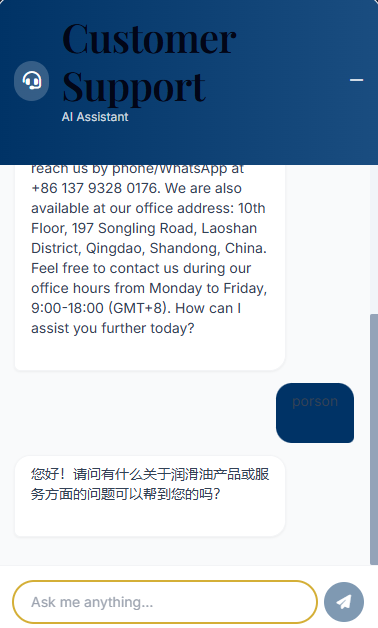
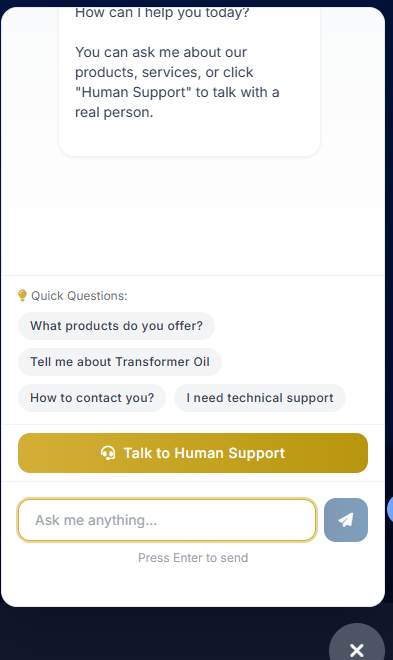
fix: 修复客服对话框显示不全问题
- 窗口最大高度从 80vh 增加到 90vh
- 消息区域最小高度设为 250px，最大高度设为 50vh
- 确保消息区域能完整显示欢迎消息和快捷问题

diff --git a/src/components/ChatWidget.tsx b/src/components/ChatWidget.tsx
@@ -228,7 +228,7 @@ const ChatWidget = () => {
     <div className="fixed bottom-4 right-4 z-50 flex flex-col items-end max-w-[calc(100vw-2rem)]">
       {/* Chat Window */}
       {isOpen && (
-        <div className="mb-4 w-[calc(100vw-2rem)] sm:w-96 bg-white rounded-2xl shadow-2xl flex flex-col overflow-hidden border border-gray-200 animate-slideUp max-h-[80vh] sm:max-h-[600px]">
+        <div className="mb-4 w-[calc(100vw-2rem)] sm:w-96 bg-white rounded-2xl shadow-2xl flex flex-col overflow-hidden border border-gray-200 animate-slideUp" style={{ maxHeight: '90vh' }}>
           {/* Header */}
           <div className="bg-gradient-to-r from-[#003366] via-[#004080] to-[#003366] text-white p-3 sm:p-4 relative overflow-hidden flex-shrink-0">
             {/* Decorative elements */}
@@ -265,7 +265,7 @@ const ChatWidget = () => {
           </div>
 
           {/* Messages Area */}
-          <div className="flex-1 overflow-y-auto p-3 sm:p-4 space-y-3 bg-gradient-to-b from-gray-50 to-white min-h-[200px] sm:min-h-[320px] max-h-[40vh] sm:max-h-[420px]">
+          <div className="flex-1 overflow-y-auto p-3 sm:p-4 space-y-3 bg-gradient-to-b from-gray-50 to-white" style={{ minHeight: '250px', maxHeight: '50vh' }}>
             {messages.map((msg, index) => (
               <div
                 key={index}
